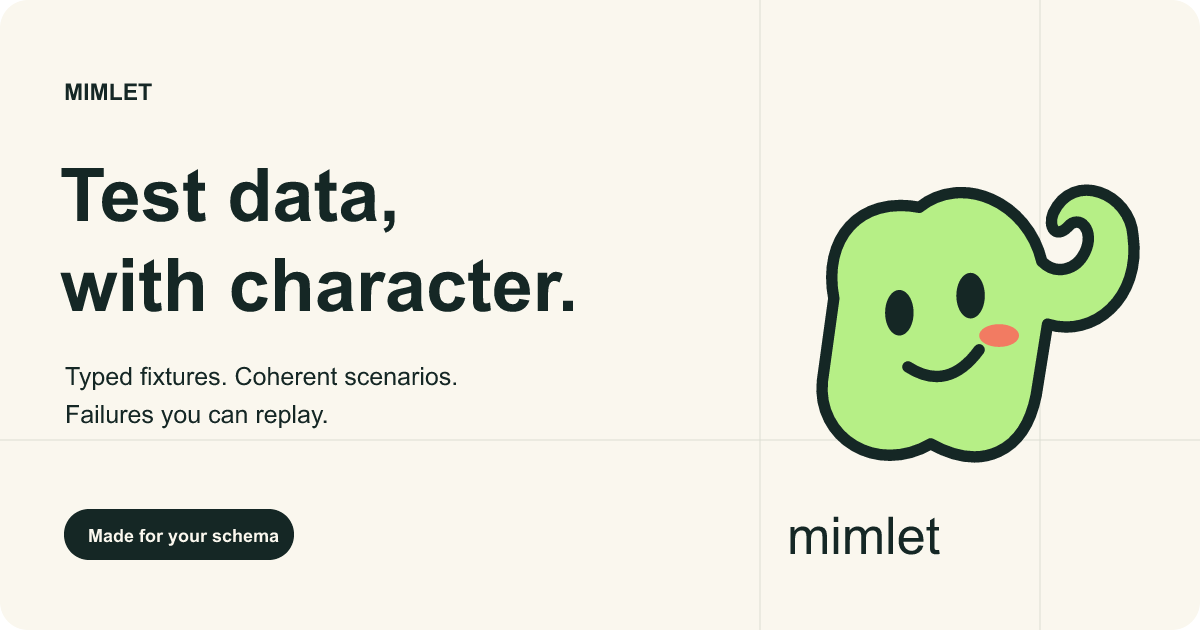
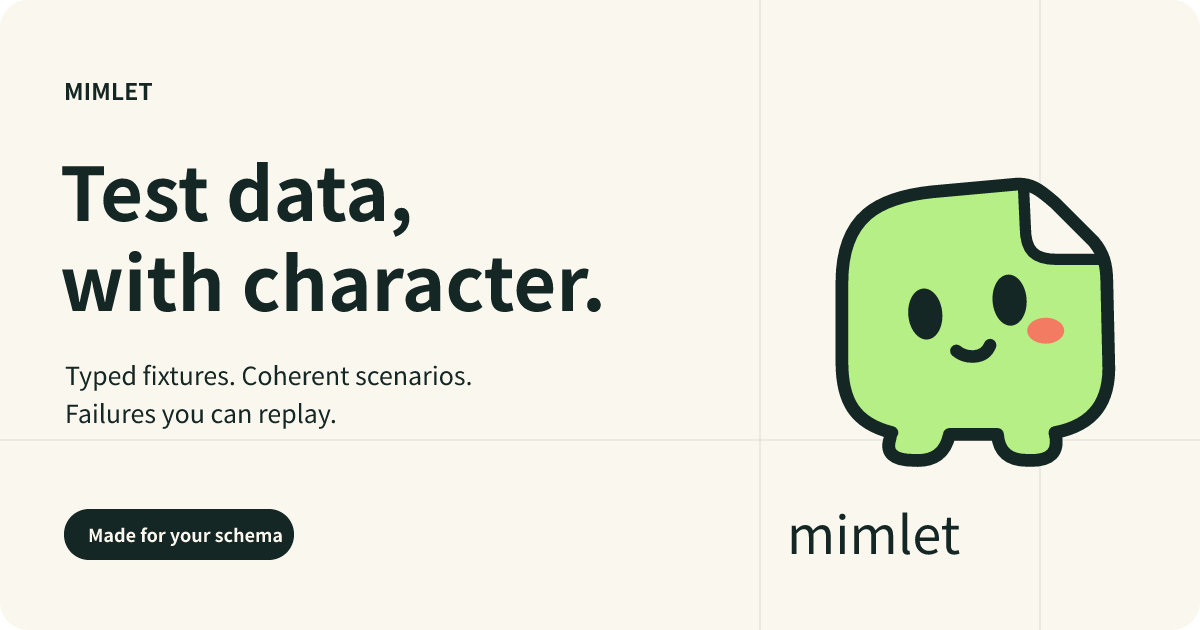
Refresh Mimlet mascot across brand assets and documentation

diff --git a/scripts/render-brand.ts b/scripts/render-brand.ts
@@ -1,12 +1,86 @@
-/** Raster exports come from the checked-in vector artwork; this never touches package output. */
+/** Shared, hand-authored geometry. Published assets are static, self-contained SVGs. */
 import { readFile, writeFile } from 'node:fs/promises';
+import { pathToFileURL } from 'node:url';
 import { Resvg } from '@resvg/resvg-js';
 
-const root = new URL('../assets/brand/', import.meta.url);
-const source = await readFile(new URL('social.svg', root), 'utf8');
-const renderer = new Resvg(source, {
-  fitTo: { mode: 'width', value: 1200 },
-  font: { defaultFontFamily: 'Arial', loadSystemFonts: true },
-});
-await writeFile(new URL('social.png', root), renderer.render().asPng());
-console.log('Rendered assets/brand/social.png (1200 × 630) from social.svg.');
+const source = new URL('./brand/', import.meta.url);
+export const brandNames = [
+  'mark',
+  'mark-dark',
+  'favicon',
+  'wordmark',
+  'wordmark-dark',
+  'readme-banner',
+  'schema',
+  'scenarios',
+  'replay',
+  'social',
+] as const;
+
+export async function renderBrandAssets(): Promise<Map<string, string | Buffer>> {
+  const master = await readFile(new URL('mascot.svg', source), 'utf8');
+  // IDs belong to the standalone master. Remove them when composing multiple mascots.
+  const geometry = master
+    .replace(/^.*?<\/desc>/s, '')
+    .replace(/<\/svg>\s*$/, '')
+    .replace(/ id="[^"]*"/g, '');
+  // Fit the approved 240-unit drawing to the existing 148 × 120 layout slot.
+  const mascot = `<g transform="translate(-1 -18) scale(.65)">${geometry}</g>`;
+  // Build the approved warm-paper dark-surface keyline from the same body/feet.
+  const body = master.match(/<g id="body"><path fill="[^"]*" d="([^"]+)"/)?.[1];
+  const feet = [...master.matchAll(/<path id="foot-(?:left|right)" d="([^"]+)"/g)].map(
+    (match) => match[1]
+  );
+  if (!body || feet.length !== 2) {
+    throw new Error('Master mascot is missing its body or feet.');
+  }
+  const keyline = `<g stroke="#faf7ee" stroke-width="13" stroke-linejoin="round" fill="none"><path d="${body}"/><path d="${feet.join('')}"/></g>`;
+  const darkMascot = `<g transform="translate(-1 -18) scale(.65)">${keyline}${geometry}</g>`;
+  const assets = new Map<string, string | Buffer>();
+  for (const name of brandNames) {
+    const svg =
+      name === 'favicon'
+        ? await readFile(new URL('icon.svg', source), 'utf8')
+        : (
+            await readFile(
+              new URL(`layouts/${name === 'mark-dark' ? 'mark' : name}.svg`, source),
+              'utf8'
+            )
+          ).replaceAll('<!-- mascot -->', name.endsWith('-dark') ? darkMascot : mascot);
+    assets.set(`${name}.svg`, svg.trim() + '\n');
+  }
+  const social = assets.get('social.svg');
+  if (!social) {
+    throw new Error('Missing social card source.');
+  }
+  assets.set(
+    'social.png',
+    new Resvg(social, {
+      fitTo: { mode: 'width', value: 1200 },
+      font: { loadSystemFonts: false },
+    })
+      .render()
+      .asPng()
+  );
+  return assets;
+}
+
+// Importing this module for verification must not rewrite checked-in files.
+if (process.argv[1] && import.meta.url === pathToFileURL(process.argv[1]).href) {
+  const root = new URL('../assets/brand/', import.meta.url);
+  const check = process.argv.includes('--check');
+  for (const [name, contents] of await renderBrandAssets()) {
+    const target = new URL(name, root);
+    if (check) {
+      const existing = await readFile(target);
+      if (!existing.equals(Buffer.from(contents))) {
+        throw new Error(`${name} is stale. Run pnpm brand:render.`);
+      }
+    } else {
+      await writeFile(target, contents);
+    }
+  }
+  console.log(
+    check ? 'Brand assets are current.' : 'Rendered brand SVGs and social.png (1200 × 630).'
+  );
+}

diff --git a/apps/docs/.vitepress/theme/MimletHome.vue b/apps/docs/.vitepress/theme/MimletHome.vue
@@ -2,7 +2,7 @@
 import { useData, withBase } from 'vitepress';
 import { agentBenefits, identity, stories } from '../../content';
 import { heroHtml } from '../../.generated/hero';
-const { theme } = useData();
+const { theme, isDark } = useData();
 </script>
 
 <template>
@@ -30,8 +30,8 @@ const { theme } = useData();
         <div class="stage-grid" aria-hidden="true" />
         <img
           class="hero-mascot"
-          :src="withBase('/brand/mark.svg')"
-          alt="Mimlet, a small mint creature with a hooked tail"
+          :src="withBase(isDark ? '/brand/mark-dark.svg' : '/brand/mark.svg')"
+          alt="Mimlet, a mint folded-corner creature with little feet"
           width="148"
           height="120"
         />
@@ -137,7 +137,12 @@ const { theme } = useData();
     </section>
 
     <footer class="home-footer">
-      <img :src="withBase('/brand/mark.svg')" alt="" width="70" height="57" />
+      <img
+        :src="withBase(isDark ? '/brand/mark-dark.svg' : '/brand/mark.svg')"
+        alt=""
+        width="70"
+        height="57"
+      />
       <div>
         <strong>Give your next test some character.</strong>
         <p>Mimlet · MIT licensed · Made by Jeffrey Nijs</p>

diff --git a/apps/docs/.vitepress/config.ts b/apps/docs/.vitepress/config.ts
@@ -75,7 +75,7 @@ export default defineConfig({
     ];
   },
   themeConfig: {
-    logo: { src: '/brand/mark.svg', alt: '' },
+    logo: { light: '/brand/mark.svg', dark: '/brand/mark-dark.svg', alt: '' },
     siteTitle: 'mimlet',
     outline: [2, 3],
     search: { provider: 'local' },

diff --git a/assets/brand/README.md b/assets/brand/README.md
@@ -1,22 +1,41 @@
 # Mimlet identity
 
-Mimlet is a small mimic: the fixture changes shape, but the offset eyes and hooked
-tail keep its character recognizable. The visual system uses warm paper `#faf7ee`,
+Mimlet is a mint folded-corner document creature with offset eyes, a coral cheek,
+a small smile and little feet. The visual system uses warm paper `#faf7ee`,
 deep ink `#152725`, mint `#b6ef86` and coral `#f27b62`.
 
-- `mark.svg` and `favicon.svg`: the original mascot and simplified small mark.
-- `wordmark.svg` and `wordmark-dark.svg`: outlined lowercase lettering for light
-  and dark surfaces. The wordmarks need no font download.
-- `readme-banner.svg`: the repository introduction.
-- `schema.svg`, `scenarios.svg`, `replay.svg`: illustrations for the three core stories.
-- `social.svg` and `social.png`: the 1200 × 630 social-sharing card.
+- `mark.svg` and `mark-dark.svg`: the approved mascot, sized for the existing
+  logo layout; the dark variant adds a warm-paper keyline
+- `favicon.svg`: the simplified square small-size drawing, with a readable fold,
+  eyes and smile at 16–24 pixels
+- `wordmark.svg` and `wordmark-dark.svg`: original outlined lowercase lettering
+  for light and dark surfaces; the dark mascot uses the same warm-paper keyline
+  and no font download is needed
+- `readme-banner.svg`: the repository introduction
+- `schema.svg`, `scenarios.svg`, `replay.svg`: illustrations for the three core stories
+- `social.svg` and `social.png`: the 1200 × 630 social-sharing card
 
-Run `pnpm brand:render` to regenerate the PNG from its editable SVG. Illustration
-text uses the renderer's system sans-serif fallback; rendering on a different OS
-can change those glyphs. The mascot and wordmark paths are platform-independent.
+## Editing and rendering
 
-Use the unmodified hooked silhouette for small icons. Illustrations may change
-the pose or body color, but retain the eyes and tail. Keep functional text in ink
-on paper or paper on ink; mint and coral are accents, not low-contrast body text.
+Edit the hand-authored master in `scripts/brand/mascot.svg` and the intentionally
+simplified small icon in `scripts/brand/icon.svg`. Layouts live in
+`scripts/brand/layouts/`; each `<!-- mascot -->` slot receives the same geometry
+through `scripts/render-brand.ts`. Do not edit the generated assets individually.
+The published SVGs are standalone vectors, with no embedded raster images,
+external dependencies, scripts or animation. They work without JavaScript and
+remain static for reduced-motion users.
+
+Run `pnpm brand:render` to regenerate all SVGs and the social PNG, or
+`pnpm brand:render --check` to verify they are current. Run `pnpm test:tooling`
+for geometry, asset coverage, accessibility and raster checks. The existing pinned
+Resvg development dependency renders the PNG without system fonts: the social
+layout preserves its lettering as vector outlines, so output is reproducible.
+Other illustration text retains the original system sans-serif font stack and
+may vary between operating systems. Wordmark lettering is unchanged vector art.
+
+Retain the folded corner, offset eyes, smile and feet when using the mascot. Use
+the simplified favicon for tiny icons. Keep functional text in ink on paper or
+paper on ink; mint and coral are accents, not low-contrast body text.
 Decorative uses should have empty alternative text; the product logo should be
-named “Mimlet”. All artwork is original and provided under the repository's MIT license.
+named “Mimlet”. Mascot artwork is original and provided under the repository's
+MIT license.
